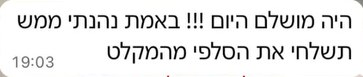
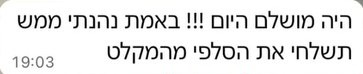
Reviews: rename to המלצות, uniform card grid, mobile swipe strip on home
Claude-Session: https://claude.ai/code/session_012P347z7To3NU7jq49o2ChW

diff --git a/site/index.html b/site/index.html
@@ -251,12 +251,14 @@ nav.links a[aria-current="page"]::after,nav.links a:hover::after{transform:scale
 .step h3{font-size:calc(25px * var(--fs));margin-block:14px 8px}
 .step p{color:var(--mute);font-size:calc(15.5px * var(--fs));max-width:28ch}
 @media (max-width:860px){.steps{grid-template-columns:1fr 1fr;row-gap:28px}.step:nth-child(3){border-inline-start:0;padding-inline-start:0}}
-.revs{columns:3 300px;column-gap:26px}
-.rmsg{break-inside:avoid;width:min(100%, calc(var(--w) * var(--k,.8) * 1px));margin:0 0 20px;padding:4px;background:#fff;border-radius:18px;box-shadow:0 10px 26px rgba(20,16,12,.16),0 1px 2px rgba(20,16,12,.12)}
-.rmsg:nth-child(even){margin-inline-start:auto}
+.revs{display:grid;grid-template-columns:repeat(3,minmax(0,1fr));gap:20px}
+.rcard{display:grid;place-items:center;padding:26px 22px;border:1px solid var(--line);border-radius:22px;background:var(--ink-2)}
+.rmsg{width:min(100%, calc(var(--w) * var(--k,.8) * 1px));margin:0;padding:4px;background:#fff;border-radius:18px;box-shadow:0 10px 24px rgba(20,16,12,.16),0 1px 2px rgba(20,16,12,.1)}
 .rmsg img{display:block;width:100%;height:auto;border-radius:14px}
-.revs.home .rmsg:nth-child(n+8){display:none}
-@media (max-width:700px){.revs{columns:1}.revs.home .rmsg:nth-child(n+6){display:none}.rmsg{margin-bottom:16px}}
+.revs.home .rcard:nth-child(n+4){display:none}
+@media (max-width:1000px){.revs{grid-template-columns:repeat(2,minmax(0,1fr))}.revs.home .rcard:nth-child(n+3){display:none}}
+@media (max-width:640px){.revs{grid-template-columns:1fr;gap:14px}.rcard{padding:20px 16px}
+.revs.home{display:flex;overflow-x:auto;scroll-snap-type:x mandatory;gap:12px;margin-inline:calc(-1 * max(22px,env(safe-area-inset-left,0px)));padding-inline:max(22px,env(safe-area-inset-left,0px));scrollbar-width:none}.revs.home::-webkit-scrollbar{display:none}.revs.home .rcard{flex:0 0 86%;scroll-snap-align:center}.revs.home .rcard:nth-child(n){display:grid}.revs.home .rcard:nth-child(n+7){display:none}}
 .revs-note{color:var(--mute);font-size:calc(14px * var(--fs));margin-top:10px}
 .home-cta{margin-top:56px;display:flex;justify-content:space-between;align-items:center;gap:24px;flex-wrap:wrap;padding:34px;border:1px solid var(--line-strong);background:var(--ink-2)}
 .home-cta h3{font-size:calc(clamp(30px,3.6vw,44px) * var(--fs-big))}
@@ -534,7 +536,7 @@ body[data-view="talk"] .wa-float,.wa-float.away{opacity:0;pointer-events:none}
     <nav class="links" aria-label="ניווט ראשי">
       <a href="#home" data-nav="home">בית</a>
       <a href="#work" data-nav="work">עבודות</a>
-      <a href="#reviews" data-nav="reviews">מה אומרים</a>
+      <a href="#reviews" data-nav="reviews">המלצות</a>
       <a href="#studio" data-nav="studio">סטודיו</a>
     </nav>
     <a class="btn sm cta" href="#talk">בואו נדבר <span class="arr">←</span></a>
@@ -600,7 +602,7 @@ body[data-view="talk"] .wa-float,.wa-float.away{opacity:0;pointer-events:none}
       </div>
     </div>
     <div class="wrap home-sec">
-      <div class="sec-head" data-sr><div><h2>מה אומרים</h2></div><a class="more" href="#reviews">לכל ההודעות <span class="arr">←</span></a></div>
+      <div class="sec-head" data-sr><div><h2>המלצות</h2></div><a class="more" href="#reviews">לכל ההמלצות <span class="arr">←</span></a></div>
       <div class="revs home" id="homeRevs" data-sr></div>
     </div>
     <div class="band" data-sr>
@@ -623,9 +625,8 @@ body[data-view="talk"] .wa-float,.wa-float.away{opacity:0;pointer-events:none}
   <!-- REVIEWS -->
   <section class="view" data-view="reviews" hidden>
     <div class="wrap">
-      <div class="page-head"><div><h2 data-rv>מה אומרים</h2><p class="lead" data-rv>הודעות שקיבלתי אחרי הקעקוע. כל אחת מהן מחממת לי את הלב.</p></div><a class="btn" href="#talk" data-rv>בואו נדבר <span class="arr">←</span></a></div>
+      <div class="page-head"><div><h2 data-rv>המלצות</h2><p class="lead" data-rv>הודעות שקיבלתי מלקוחות אחרי הקעקוע. כל אחת מהן מחממת לי את הלב.</p></div><a class="btn" href="#talk" data-rv>בואו נדבר <span class="arr">←</span></a></div>
       <div class="revs" id="allRevs"></div>
-      <p class="revs-note">מתוך הודעות ששלחו לי לקוחות אחרי הקעקוע.</p>
       <div style="height:80px"></div>
     </div>
   </section>
@@ -738,7 +739,7 @@ body[data-view="talk"] .wa-float,.wa-float.away{opacity:0;pointer-events:none}
       <div data-email-col hidden><b>מייל</b><a class="tel" dir="ltr" data-email></a></div>
       <div><b>סטודיו</b>גבעתיים</div>
       <div><b>ימים</b>ראשון עד שישי<br>שעות בתיאום</div>
-      <div><b>מידע</b><a href="#reviews">מה אומרים</a> · <a href="#privacy">פרטיות</a> · <a href="#accessibility">נגישות</a></div>
+      <div><b>מידע</b><a href="#reviews">המלצות</a> · <a href="#privacy">פרטיות</a> · <a href="#accessibility">נגישות</a></div>
     </div>
   </div></footer>
 
@@ -930,9 +931,10 @@ $('#flashes').addEventListener('click', e => { const b = e.target.closest('[data
 
 /* ---------- reviews: screenshots of clients' messages ---------- */
 const REV_K = [1.0, 0.7, 0.8, 0.72, 0.8, 0.72, 0.7, 0.8, 1.0, 0.8, 0.72, 0.8, 0.7, 0.72, 0.72, 0.8, 1.0, 0.8, 0.72, 0.74, 1.0, 0.72, 0.8, 0.8, 0.72, 0.7, 0.72, 0.7, 0.8, 1.0, 1.0];
-const REVIEWS = [{"w":306,"h":152,"t":"היי שלום, רציתי להגיד לך שהיה פשוט מדהים! הכל! המקום, המוזיקה וכמובן הקעקוע. בנעימות ומקצועיות שלא נתקלים. יצא פשוט מדהים, תודה ענקית!!!"},{"w":399,"h":113,"t":"תקשיבי את פשוט מדהימה ❤ המון תודה על המקצועיות, התמיכה והכי חשוב העבודה המדהימה"},{"w":430,"h":117,"t":"איזה מרגש את לא מבינה איך קמתי בקלות היום כי זה לקום ליום של קעקוע"},{"w":417,"h":171,"t":"אהובתי, אני כ״כ אוהבת אותך, תודה! וגם על האנרגיות הטובות שלך והרוגע שהשרית עליי ❤ ועכשיו, איפה התמונות שלי? תשלחי... אני רוצה להשוויץ"},{"w":372,"h":76,"t":"מחלים קטלני ורציתי להגיד לך תודה רבה ושאני אוהב אותו המון"},{"w":442,"h":102,"t":"וואי תקשיבי תודה ענקית ומטורפת, זה מדהים אני ממש מתה על זה"},{"w":437,"h":89,"t":"נהננו כל-כך מהחוויה איתך, משמעותית ומרגשת בטירוף"},{"w":367,"h":807,"t":"מכתב תודה: ביום שישי הגענו אלייך לרגל יום ההולדת כדי לעשות קעקוע משותף של אמא ובת. קודם כל, איזה כיף שזכינו להגיע דווקא אלייך! המקצועיות, הסבלנות, הדיוק והיחס המקסים שלך פשוט עשו את החוויה למושלמת. תודה על הכל, היה לנו כיף, אין ספק שיצאנו עם הרבה יותר מקעקוע"},{"w":326,"h":115,"t":"ואני שוב רוצה להודות לך על הקעקוע המושלם שלי, על ההשקעה וההתמדה שלך בפרטים הכי קטנים ושבכללי הפכת את זה לחוויה נעימה ❤"},{"w":382,"h":79,"t":"מושלםםם אין עלייך באמת, שמחה שבחרתי בך"},{"w":420,"h":130,"t":"אני כל כך שמחה שאת עשית לי חוויה כל כך טובה לקעקוע הראשון, כי אני הייתי בלחץ מזה ואת גרמת לי להנות ולזמן לעוף"},{"w":357,"h":76,"t":"היה שווה להתעכב עוד כמה דקות על המיקומים, וואי איך אני מרוצה"},{"w":381,"h":82,"t":"תודה רבה לך את הכי מושלמת, עפו עלייך ועל הקעקועים"},{"w":385,"h":92,"t":"מתוקה שלי, אני כ״כ אוהבת את זה, שחושבת לעצמי איך לא עשיתי את זה קודם"},{"w":410,"h":196,"t":"אני רק אספר לך שמאמן אחד שאני עובדת איתו וחברה שלי שראו את הקעקוע כבר שאלו אצל מי עשיתי, והלכו לבדוק את העמוד שלך. רק שתדעי שאת עושה עבודה מטורפת"},{"w":417,"h":77,"t":"הוא מחלים מדהים, תקשיבי אני מתה עליו ברמות"},{"w":286,"h":75,"t":"היה לי כיף בטירוף והקעקוע כל כך יפה, לא מפסיקה להסתכל עליו, את מושלמת!!!"},{"w":363,"h":77,"t":"היה מושלם היום!!! באמת נהניתי ממש, תשלחי את הסלפי מהמקלט"},{"w":366,"h":73,"t":"הקעקוע יצא ממש עדין, יפה ומשתלב בגוף"},{"w":248,"h":79,"t":"תודה רבה יצא ממש מושלם! וואי ממש את אלופה בחיי"},{"w":302,"h":63,"t":"כן נראה ממש טוב. ממש תודה, היה תענוג כל התהליך"},{"w":322,"h":67,"t":"נהניתי ממש עדי, אין עלייך, תודה על הקעקוע, יצא מדהים"},{"w":407,"h":125,"t":"וואי עדי זה נראה פשוט מושלם בול כמו שיצאתי ממך, לא יאומן אני אשלח לך תמונה"},{"w":317,"h":70,"t":"מאוהבת בחבר החדש שלי על הגב"},{"w":418,"h":110,"t":"היה מדהים לראות אותך ולהתעדכן, את באמת גרמת לזה להיות כל כך כיף ורגוע, זה מדהים!!!"},{"w":374,"h":65,"t":"החלמה מטורפת! הקעקוע מושלם ברמות"},{"w":341,"h":140,"t":"שומעת שכנה ראתה אותי במעלית עכשיו ודפקה לי איזה קעקועים מגניבים יש לך, כל מה שהיא ראתה היו שלך"},{"w":330,"h":64,"t":"מלא תודה עדי, הקעקוע מושלם ברמות!!! היה ממש כיף לראות אותך"},{"w":294,"h":105,"t":"מושלם!!!!! מחכה לבוא לארץ להתקעקע אצלך גם"},{"w":303,"h":59,"t":"ממש תודה לך, הייתה לנו חוויה מהממת"},{"w":303,"h":188,"t":"אני אגיד לך באמת תודה ממש, היה סופר נעים וכיף ואני מבסוט מאוד מהעבודה, ואת מאוד הכי נחמדה. בטוח שאני אחזור אלייך בקרוב, וואלה ממש תודה"}].map((r, i) => ({...r, k:REV_K[i], src:`img/reviews/${String(i+1).padStart(2,'0')}.jpg`}));
-const revHTML = list => list.map(r => `<figure class="rmsg" style="--w:${r.w};--k:${r.k}"><img src="${r.src}" alt="${esc('הודעה מלקוח: ' + r.t)}" loading="lazy" width="${r.w}" height="${r.h}"></figure>`).join('');
-['#homeRevs','#allRevs'].forEach(sel => { $(sel).innerHTML = revHTML(REVIEWS); });
+const REVIEWS = [{"w":306,"h":152,"t":"היי שלום, רציתי להגיד לך שהיה פשוט מדהים! הכל! המקום, המוזיקה וכמובן הקעקוע. בנעימות ומקצועיות שלא נתקלים. יצא פשוט מדהים, תודה ענקית!!!"},{"w":399,"h":113,"t":"תקשיבי את פשוט מדהימה ❤ המון תודה על המקצועיות, התמיכה והכי חשוב העבודה המדהימה"},{"w":430,"h":117,"t":"איזה מרגש את לא מבינה איך קמתי בקלות היום כי זה לקום ליום של קעקוע"},{"w":417,"h":171,"t":"אהובתי, אני כ״כ אוהבת אותך, תודה! וגם על האנרגיות הטובות שלך והרוגע שהשרית עליי ❤ ועכשיו, איפה התמונות שלי? תשלחי... אני רוצה להשוויץ"},{"w":372,"h":76,"t":"מחלים קטלני ורציתי להגיד לך תודה רבה ושאני אוהב אותו המון"},{"w":442,"h":102,"t":"וואי תקשיבי תודה ענקית ומטורפת, זה מדהים אני ממש מתה על זה"},{"w":437,"h":89,"t":"נהננו כל-כך מהחוויה איתך, משמעותית ומרגשת בטירוף"},{"w":367,"h":807,"t":"מכתב תודה: ביום שישי הגענו אלייך לרגל יום ההולדת כדי לעשות קעקוע משותף של אמא ובת. קודם כל, איזה כיף שזכינו להגיע דווקא אלייך! המקצועיות, הסבלנות, הדיוק והיחס המקסים שלך פשוט עשו את החוויה למושלמת. תודה על הכל, היה לנו כיף, אין ספק שיצאנו עם הרבה יותר מקעקוע"},{"w":326,"h":115,"t":"ואני שוב רוצה להודות לך על הקעקוע המושלם שלי, על ההשקעה וההתמדה שלך בפרטים הכי קטנים ושבכללי הפכת את זה לחוויה נעימה ❤"},{"w":382,"h":79,"t":"מושלםםם אין עלייך באמת, שמחה שבחרתי בך"},{"w":420,"h":130,"t":"אני כל כך שמחה שאת עשית לי חוויה כל כך טובה לקעקוע הראשון, כי אני הייתי בלחץ מזה ואת גרמת לי להנות ולזמן לעוף"},{"w":357,"h":76,"t":"היה שווה להתעכב עוד כמה דקות על המיקומים, וואי איך אני מרוצה"},{"w":381,"h":82,"t":"תודה רבה לך את הכי מושלמת, עפו עלייך ועל הקעקועים"},{"w":385,"h":92,"t":"מתוקה שלי, אני כ״כ אוהבת את זה, שחושבת לעצמי איך לא עשיתי את זה קודם"},{"w":410,"h":196,"t":"אני רק אספר לך שמאמן אחד שאני עובדת איתו וחברה שלי שראו את הקעקוע כבר שאלו אצל מי עשיתי, והלכו לבדוק את העמוד שלך. רק שתדעי שאת עושה עבודה מטורפת"},{"w":417,"h":77,"t":"הוא מחלים מדהים, תקשיבי אני מתה עליו ברמות"},{"w":286,"h":75,"t":"היה לי כיף בטירוף והקעקוע כל כך יפה, לא מפסיקה להסתכל עליו, את מושלמת!!!"},{"w":363,"h":74,"t":"היה מושלם היום!!! באמת נהניתי ממש, תשלחי את הסלפי מהמקלט"},{"w":366,"h":73,"t":"הקעקוע יצא ממש עדין, יפה ומשתלב בגוף"},{"w":248,"h":79,"t":"תודה רבה יצא ממש מושלם! וואי ממש את אלופה בחיי"},{"w":302,"h":63,"t":"כן נראה ממש טוב. ממש תודה, היה תענוג כל התהליך"},{"w":322,"h":67,"t":"נהניתי ממש עדי, אין עלייך, תודה על הקעקוע, יצא מדהים"},{"w":407,"h":125,"t":"וואי עדי זה נראה פשוט מושלם בול כמו שיצאתי ממך, לא יאומן אני אשלח לך תמונה"},{"w":317,"h":70,"t":"מאוהבת בחבר החדש שלי על הגב"},{"w":400,"h":110,"t":"היה מדהים לראות אותך ולהתעדכן, את באמת גרמת לזה להיות כל כך כיף ורגוע, זה מדהים!!!"},{"w":374,"h":65,"t":"החלמה מטורפת! הקעקוע מושלם ברמות"},{"w":341,"h":140,"t":"שומעת שכנה ראתה אותי במעלית עכשיו ודפקה לי איזה קעקועים מגניבים יש לך, כל מה שהיא ראתה היו שלך"},{"w":330,"h":64,"t":"מלא תודה עדי, הקעקוע מושלם ברמות!!! היה ממש כיף לראות אותך"},{"w":294,"h":105,"t":"מושלם!!!!! מחכה לבוא לארץ להתקעקע אצלך גם"},{"w":303,"h":59,"t":"ממש תודה לך, הייתה לנו חוויה מהממת"},{"w":303,"h":188,"t":"אני אגיד לך באמת תודה ממש, היה סופר נעים וכיף ואני מבסוט מאוד מהעבודה, ואת מאוד הכי נחמדה. בטוח שאני אחזור אלייך בקרוב, וואלה ממש תודה"}].map((r, i) => ({...r, k:REV_K[i], src:`img/reviews/${String(i+1).padStart(2,'0')}.jpg`}));
+const revHTML = list => list.map(r => `<div class="rcard"><figure class="rmsg" style="--w:${r.w};--k:${r.k}"><img src="${r.src}" alt="${esc('הודעה מלקוח: ' + r.t)}" loading="lazy" width="${r.w}" height="${r.h}"></figure></div>`).join('');
+const REV_SHOW = [1,4,3, 2,11,15, 9,6,23, 25,27,5, 7,13,14, 17,12,16, 18,19,21, 22,10,26, 20,24,28, 29,31,30].map(n => REVIEWS[n-1]);
+['#homeRevs','#allRevs'].forEach(sel => { $(sel).innerHTML = revHTML(REV_SHOW); });
 
 /* ---------- helpers ---------- */
 function selectText(el){ const r = document.createRange(); r.selectNodeContents(el); const s = getSelection(); s.removeAllRanges(); s.addRange(r); toast('סמנו והעתיקו'); }
